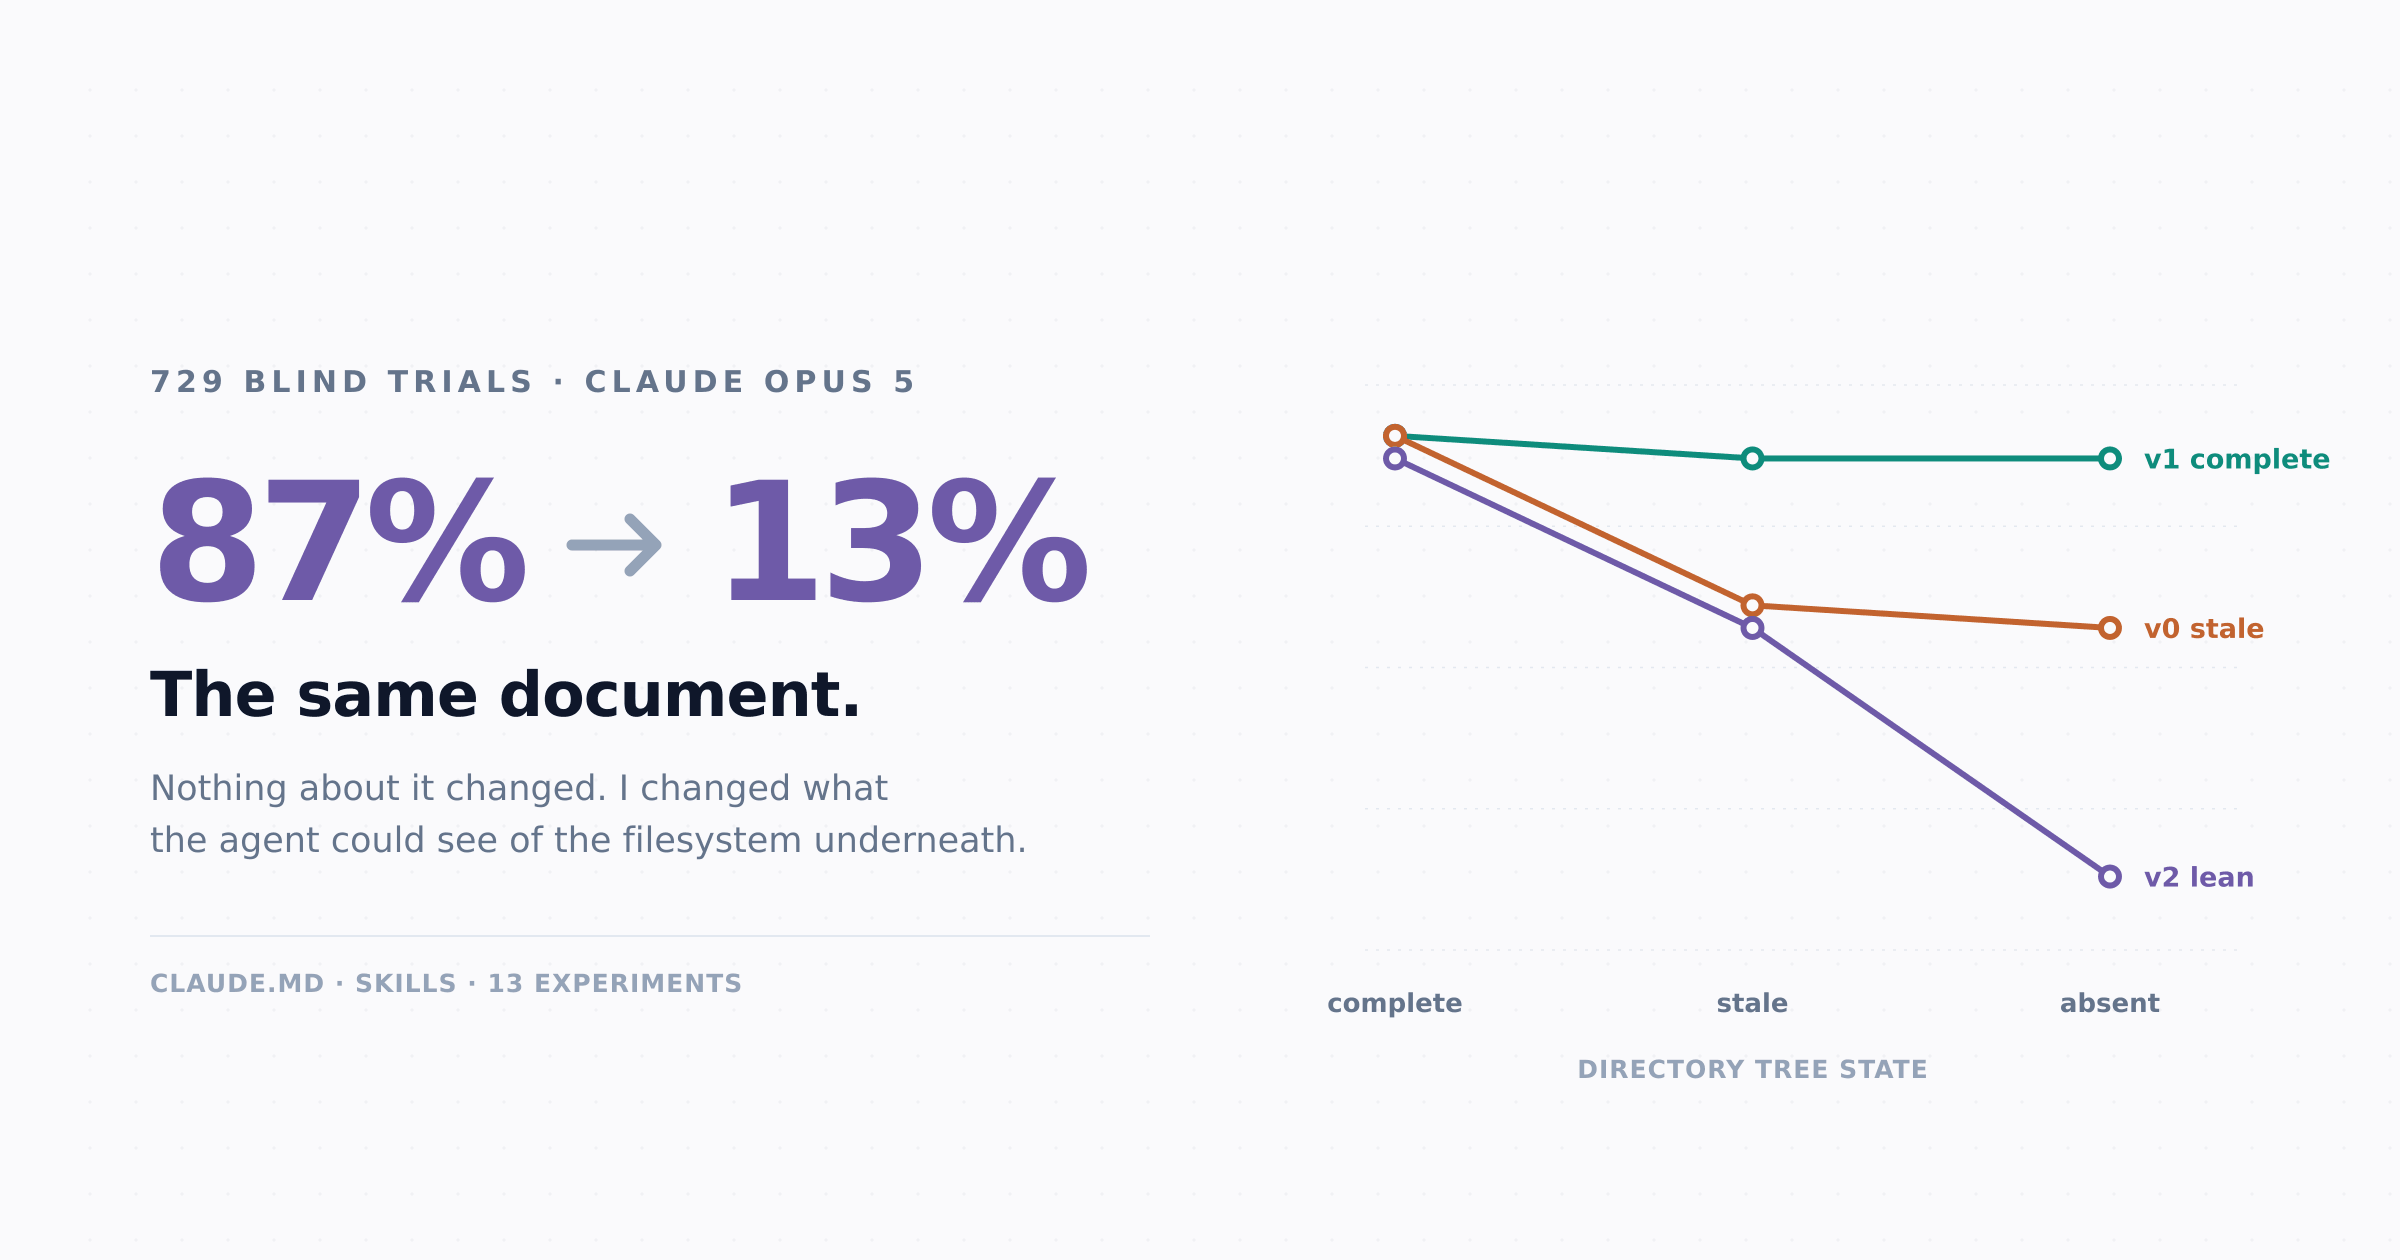
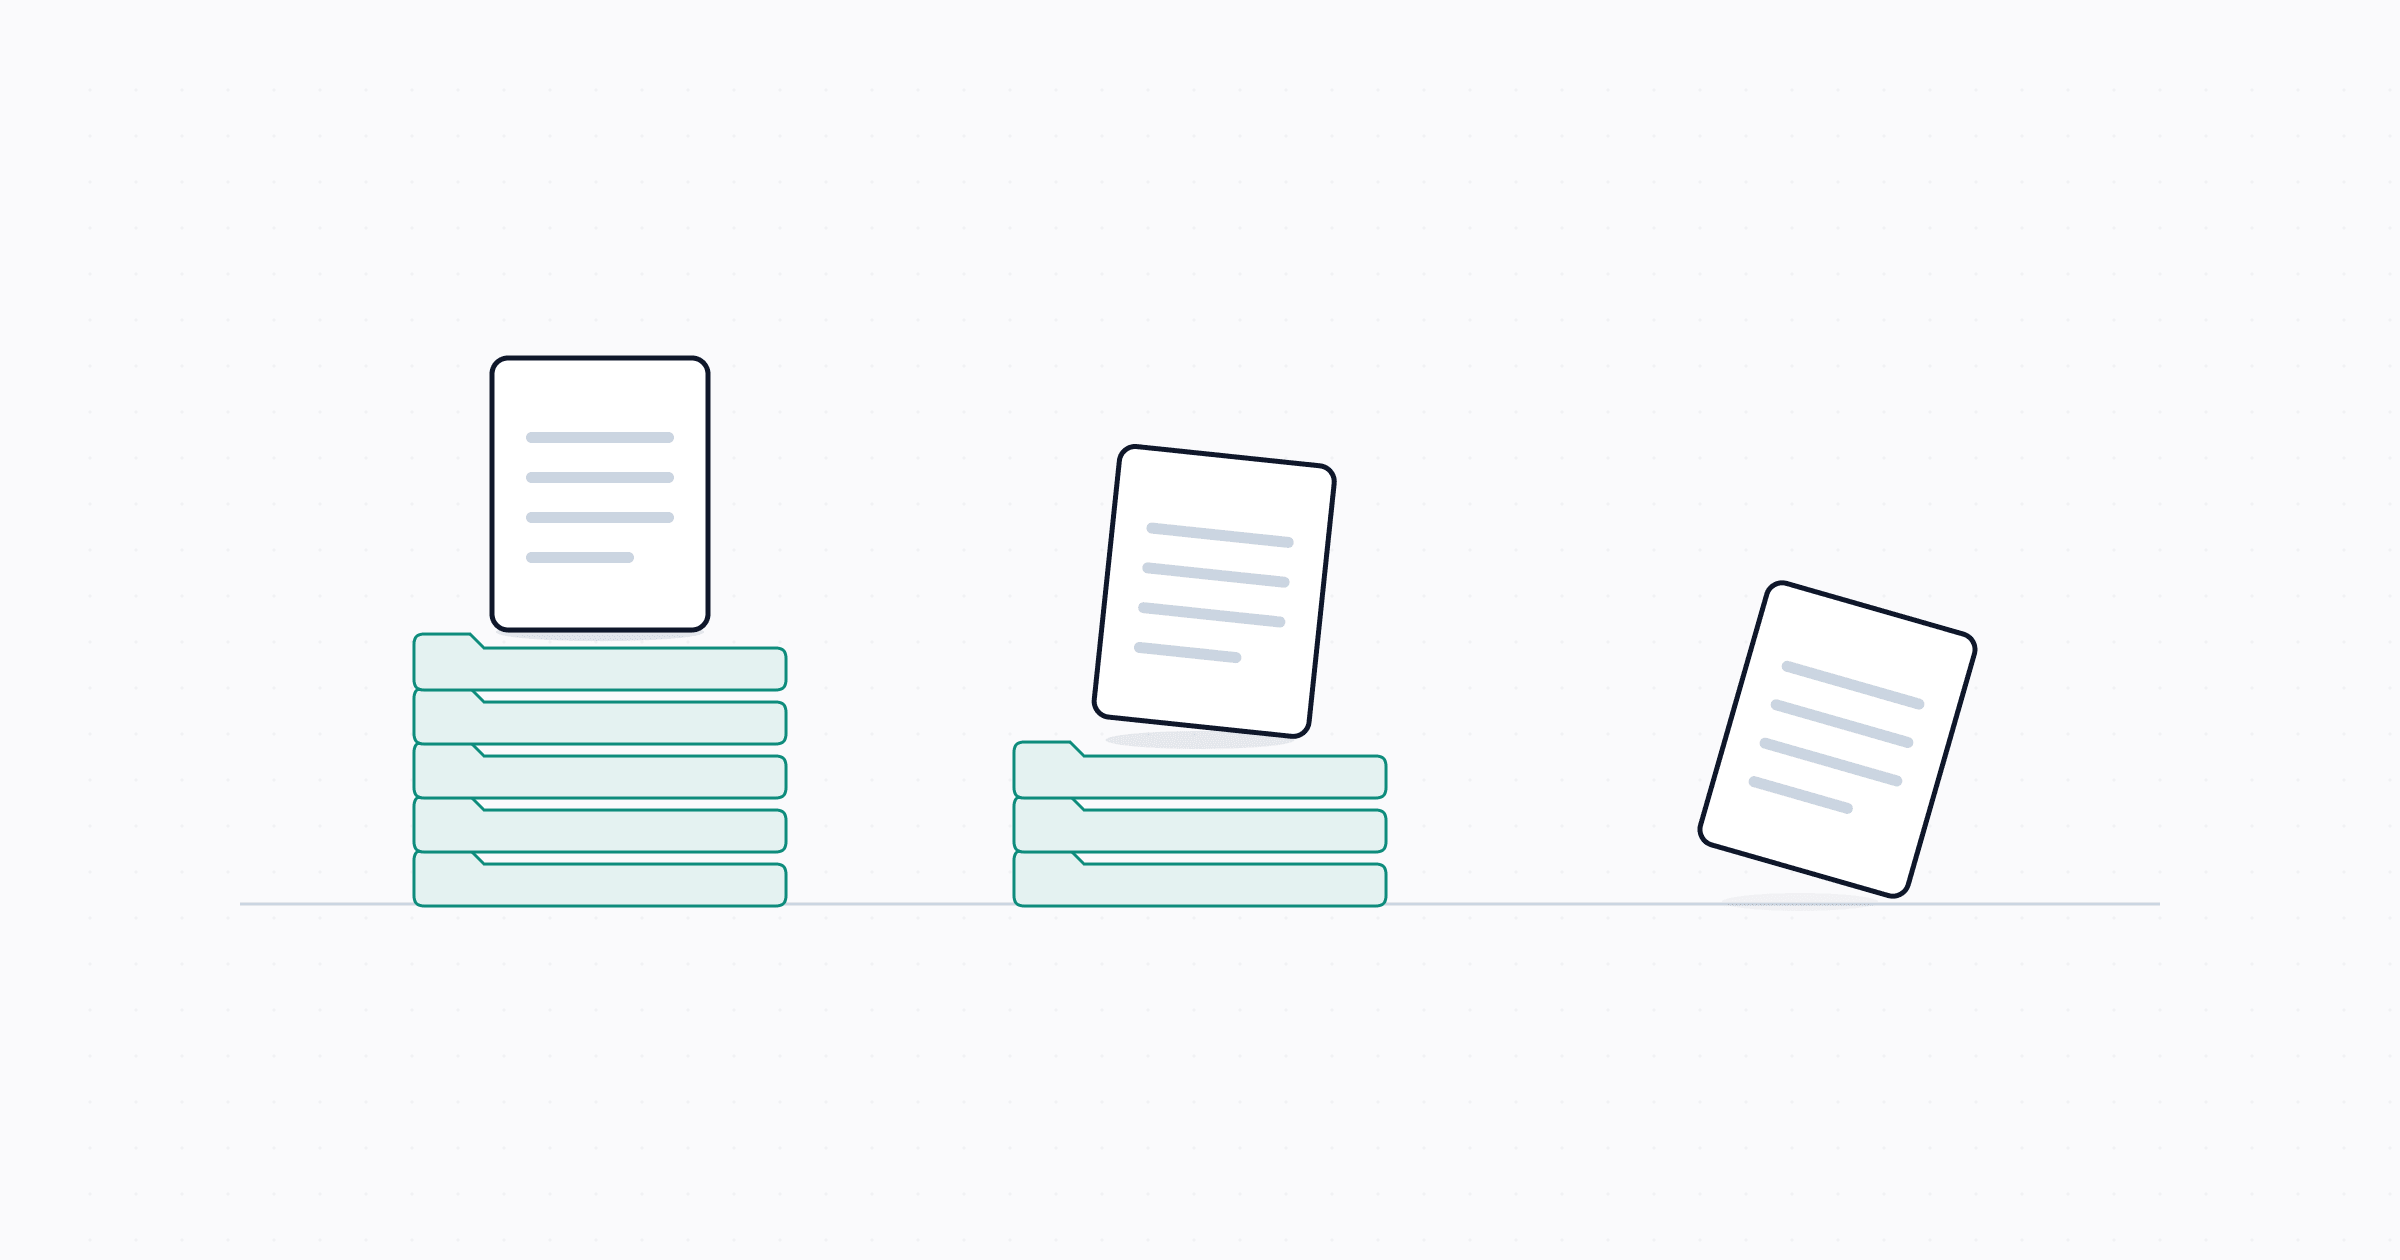
Retitle the documentation article and make its cover illustrative

diff --git a/src/content/writings/what-documentation-does-an-agent-need/index.md b/src/content/writings/what-documentation-does-an-agent-need/index.md
@@ -1,5 +1,5 @@
 ---
-title: "I deleted half my agent's instructions and nothing happened. Then I made the filesystem stale."
+title: "Documentation Doesn't Buy Accuracy. It Buys Invariance."
 date: 2026-08-04
 description: "729 blind trials on CLAUDE.md and skill files. The same document scored 87% and 13% depending on nothing but the filesystem underneath it."
 featured: true
